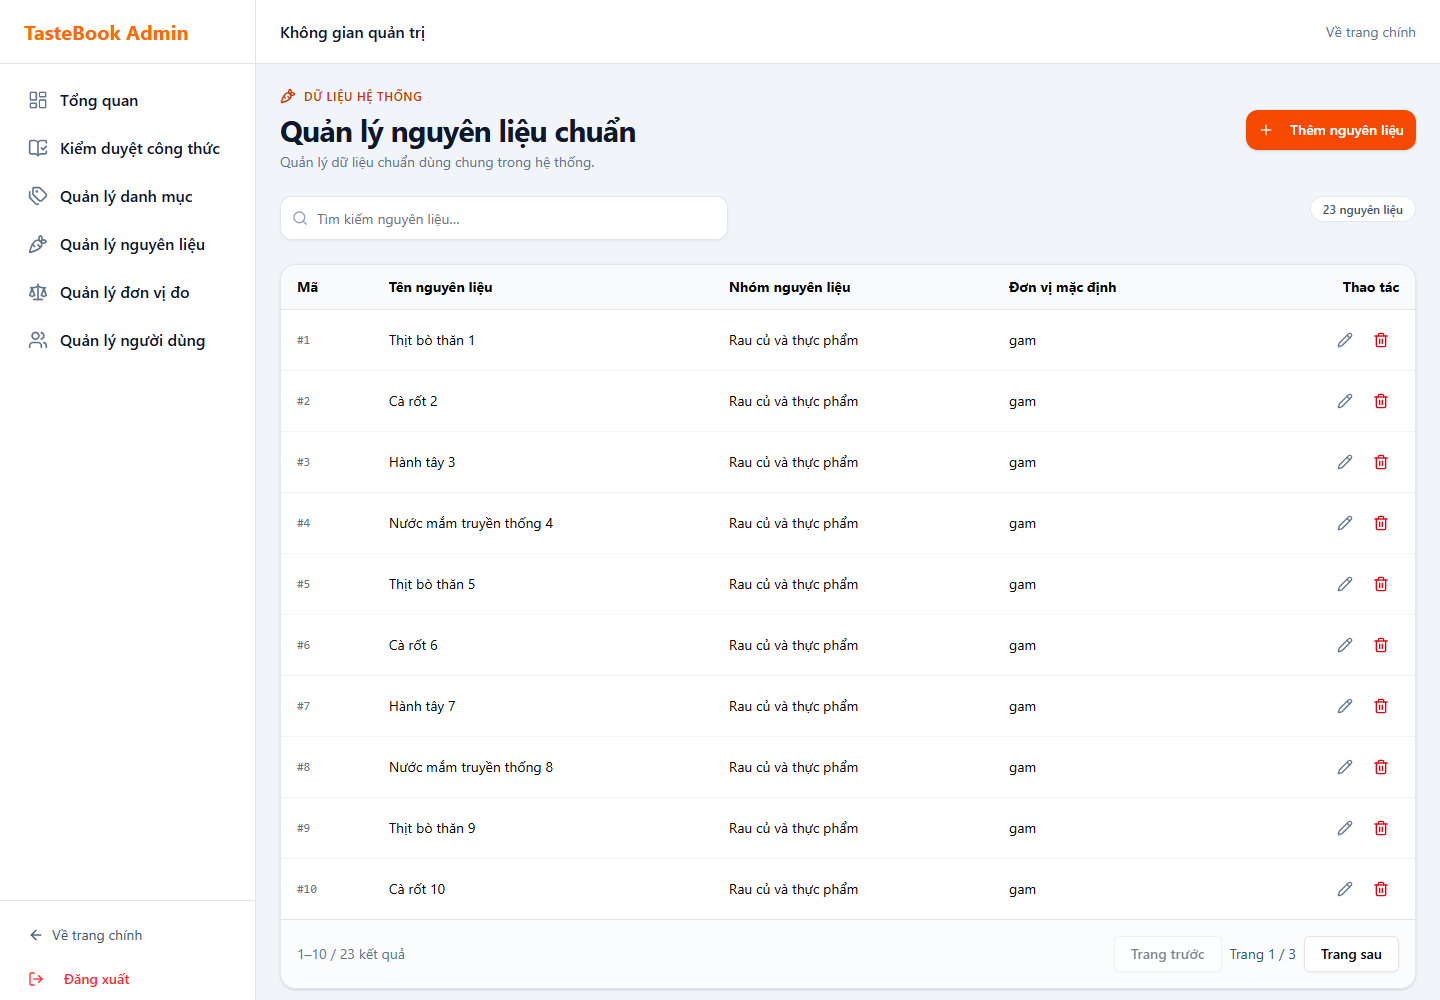
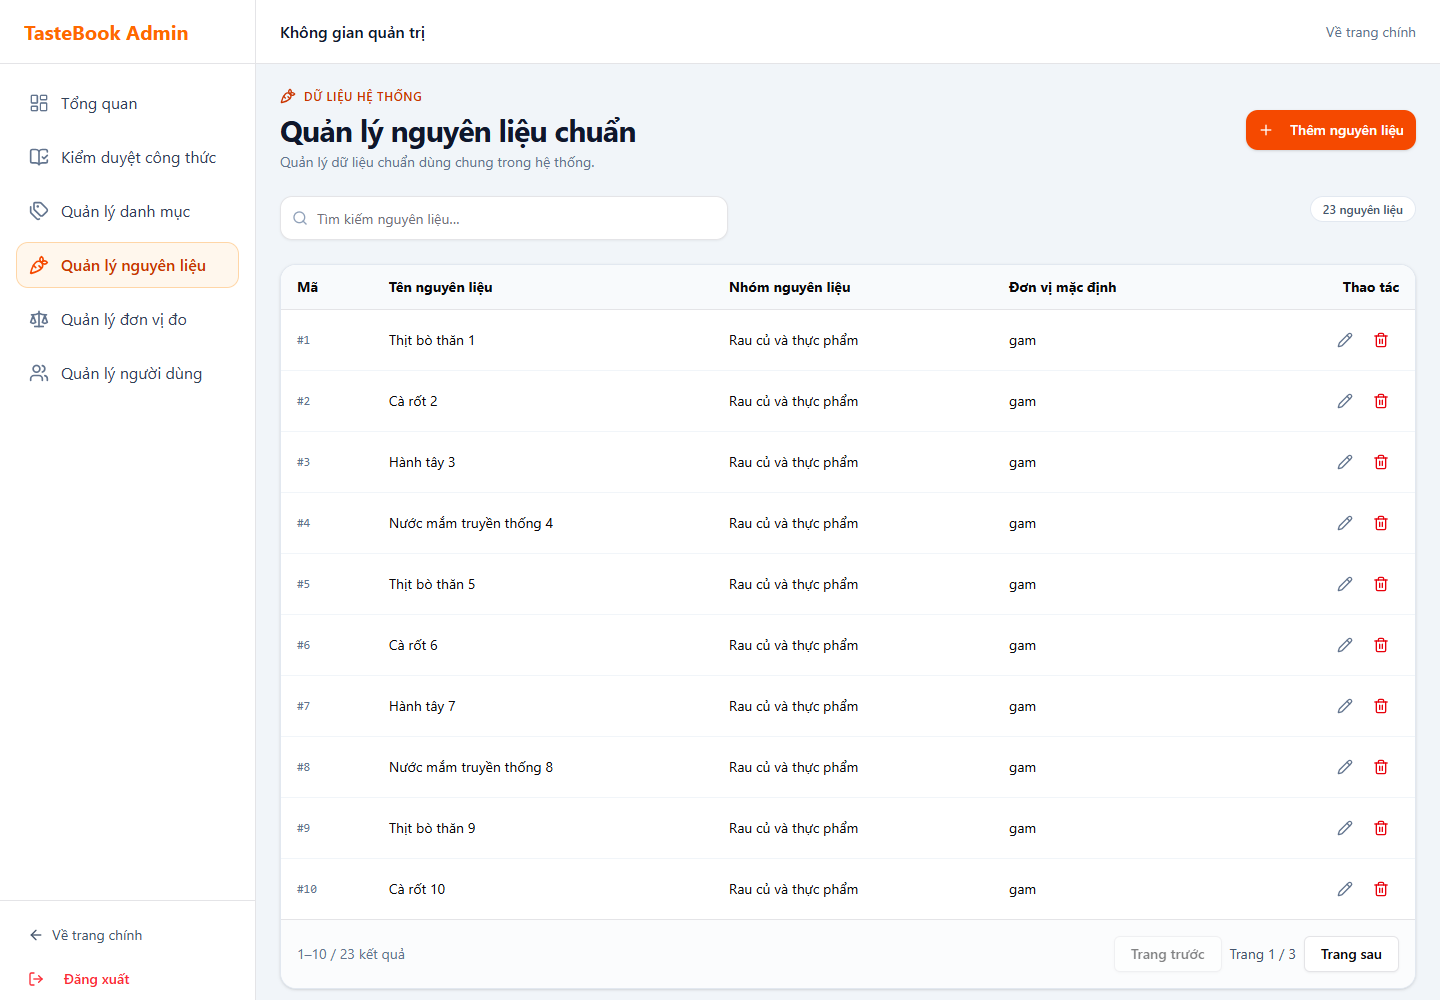
fix(fe): highlight active admin navigation on desktop and mobile

Changed region(s): [[0.0, 0.093, 0.1562, 0.403]]

diff --git a/frontend/src/components/layouts/AdminLayout.jsx b/frontend/src/components/layouts/AdminLayout.jsx
@@ -1,18 +1,9 @@
 import { useState } from 'react'
 import { Link, Outlet, useNavigate } from 'react-router-dom'
 import { toast } from 'sonner'
-import {
-  LayoutDashboard,
-  Menu,
-  BookOpenCheck,
-  Tags,
-  Carrot,
-  Scale,
-  Users,
-  LogOut,
-  ArrowLeft,
-} from 'lucide-react'
+import { Menu, LogOut, ArrowLeft } from 'lucide-react'
 import { Button } from '../ui/button'
+import AdminNavigation from './AdminNavigation'
 import { Sheet, SheetContent, SheetTrigger, SheetTitle } from '../ui/sheet'
 import { useLogout } from '../../hooks/queries/useAuthQueries'
 
@@ -43,50 +34,7 @@ export default function AdminLayout() {
           </Link>
         </div>
 
-        <nav className="flex-1 p-4 space-y-2 overflow-y-auto">
-          <Link
-            to="/admin"
-            className="flex items-center gap-3 px-3 py-2 rounded-md hover:bg-slate-100 dark:hover:bg-slate-800 transition-colors"
-          >
-            <LayoutDashboard className="w-5 h-5 text-slate-500" />
-            <span className="font-medium">Tổng quan</span>
-          </Link>
-          <Link
-            to="/admin/approvals"
-            className="flex items-center gap-3 px-3 py-2 rounded-md hover:bg-slate-100 dark:hover:bg-slate-800 transition-colors"
-          >
-            <BookOpenCheck className="w-5 h-5 text-slate-500" />
-            <span className="font-medium">Kiểm duyệt công thức</span>
-          </Link>
-          <Link
-            to="/admin/categories"
-            className="flex items-center gap-3 px-3 py-2 rounded-md hover:bg-slate-100 dark:hover:bg-slate-800 transition-colors"
-          >
-            <Tags className="w-5 h-5 text-slate-500" />
-            <span className="font-medium">Quản lý danh mục</span>
-          </Link>
-          <Link
-            to="/admin/ingredients"
-            className="flex items-center gap-3 px-3 py-2 rounded-md hover:bg-slate-100 dark:hover:bg-slate-800 transition-colors"
-          >
-            <Carrot className="w-5 h-5 text-slate-500" />
-            <span className="font-medium">Quản lý nguyên liệu</span>
-          </Link>
-          <Link
-            to="/admin/units"
-            className="flex items-center gap-3 px-3 py-2 rounded-md hover:bg-slate-100 dark:hover:bg-slate-800 transition-colors"
-          >
-            <Scale className="w-5 h-5 text-slate-500" />
-            <span className="font-medium">Quản lý đơn vị đo</span>
-          </Link>
-          <Link
-            to="/admin/users"
-            className="flex items-center gap-3 px-3 py-2 rounded-md hover:bg-slate-100 dark:hover:bg-slate-800 transition-colors"
-          >
-            <Users className="w-5 h-5 text-slate-500" />
-            <span className="font-medium">Quản lý người dùng</span>
-          </Link>
-        </nav>
+        <AdminNavigation />
 
         <div className="p-4 border-t space-y-2">
           <Link
@@ -112,53 +60,34 @@ export default function AdminLayout() {
       <div className="flex-1 flex flex-col min-w-0">
         <header className="hidden h-16 shrink-0 items-center justify-between border-b bg-white px-6 dark:bg-slate-950 md:flex">
           <span className="font-semibold">Không gian quản trị</span>
-          <Link to="/" className="text-sm text-slate-500 hover:text-orange-500">Về trang chính</Link>
+          <Link to="/" className="text-sm text-slate-500 hover:text-orange-500">
+            Về trang chính
+          </Link>
         </header>
         {/* Mobile Header */}
         <header className="h-16 bg-white dark:bg-slate-950 border-b flex items-center justify-between px-4 md:hidden">
           <span className="text-xl font-bold text-orange-500">
             TasteBook Admin
           </span>
-          
+
           <Sheet open={mobileMenuOpen} onOpenChange={setMobileMenuOpen}>
             <SheetTrigger asChild>
               <Button variant="ghost" size="icon" aria-label="Mở menu quản trị">
                 <Menu className="w-6 h-6" />
               </Button>
             </SheetTrigger>
-            <SheetContent side="left" aria-describedby={undefined} className="w-[280px] p-0 flex flex-col">
+            <SheetContent
+              side="left"
+              aria-describedby={undefined}
+              className="w-[280px] p-0 flex flex-col"
+            >
               <SheetTitle className="sr-only">Menu quản trị</SheetTitle>
               <div className="h-16 flex items-center px-6 border-b shrink-0">
                 <span className="text-xl font-bold text-orange-500">
                   TasteBook Admin
                 </span>
               </div>
-              <nav className="flex-1 p-4 space-y-2 overflow-y-auto">
-                <Link to="/admin" onClick={closeMobileMenu} className="flex items-center gap-3 px-3 py-2 rounded-md hover:bg-slate-100 dark:hover:bg-slate-800 transition-colors">
-                  <LayoutDashboard className="w-5 h-5 text-slate-500" />
-                  <span className="font-medium">Tổng quan</span>
-                </Link>
-                <Link to="/admin/approvals" onClick={closeMobileMenu} className="flex items-center gap-3 px-3 py-2 rounded-md hover:bg-slate-100 dark:hover:bg-slate-800 transition-colors">
-                  <BookOpenCheck className="w-5 h-5 text-slate-500" />
-                  <span className="font-medium">Kiểm duyệt công thức</span>
-                </Link>
-                <Link to="/admin/categories" onClick={closeMobileMenu} className="flex items-center gap-3 px-3 py-2 rounded-md hover:bg-slate-100 dark:hover:bg-slate-800 transition-colors">
-                  <Tags className="w-5 h-5 text-slate-500" />
-                  <span className="font-medium">Quản lý danh mục</span>
-                </Link>
-                <Link to="/admin/ingredients" onClick={closeMobileMenu} className="flex items-center gap-3 px-3 py-2 rounded-md hover:bg-slate-100 dark:hover:bg-slate-800 transition-colors">
-                  <Carrot className="w-5 h-5 text-slate-500" />
-                  <span className="font-medium">Quản lý nguyên liệu</span>
-                </Link>
-                <Link to="/admin/units" onClick={closeMobileMenu} className="flex items-center gap-3 px-3 py-2 rounded-md hover:bg-slate-100 dark:hover:bg-slate-800 transition-colors">
-                  <Scale className="w-5 h-5 text-slate-500" />
-                  <span className="font-medium">Quản lý đơn vị đo</span>
-                </Link>
-                <Link to="/admin/users" onClick={closeMobileMenu} className="flex items-center gap-3 px-3 py-2 rounded-md hover:bg-slate-100 dark:hover:bg-slate-800 transition-colors">
-                  <Users className="w-5 h-5 text-slate-500" />
-                  <span className="font-medium">Quản lý người dùng</span>
-                </Link>
-              </nav>
+              <AdminNavigation onNavigate={closeMobileMenu} />
               <div className="p-4 border-t shrink-0 space-y-2">
                 <Link
                   to="/"

diff --git a/frontend/src/components/layouts/AdminNavigation.jsx b/frontend/src/components/layouts/AdminNavigation.jsx
@@ -1,0 +1,56 @@
+import { NavLink } from 'react-router-dom'
+import {
+  LayoutDashboard,
+  BookOpenCheck,
+  Tags,
+  Carrot,
+  Scale,
+  Users,
+} from 'lucide-react'
+
+const items = [
+  { to: '/admin', label: 'Tổng quan', icon: LayoutDashboard, end: true },
+  {
+    to: '/admin/approvals',
+    label: 'Kiểm duyệt công thức',
+    icon: BookOpenCheck,
+  },
+  { to: '/admin/categories', label: 'Quản lý danh mục', icon: Tags },
+  { to: '/admin/ingredients', label: 'Quản lý nguyên liệu', icon: Carrot },
+  { to: '/admin/units', label: 'Quản lý đơn vị đo', icon: Scale },
+  { to: '/admin/users', label: 'Quản lý người dùng', icon: Users },
+]
+
+export default function AdminNavigation({ onNavigate }) {
+  return (
+    <nav
+      aria-label="Điều hướng quản trị"
+      className="flex-1 space-y-2 overflow-y-auto p-4"
+    >
+      {items.map(({ to, label, icon: Icon, end }) => (
+        <NavLink
+          key={to}
+          to={to}
+          end={end}
+          onClick={onNavigate}
+          className={({ isActive }) =>
+            `flex items-center gap-3 rounded-xl border px-3 py-2.5 transition-colors ${
+              isActive
+                ? 'border-orange-200 bg-orange-50 font-semibold text-orange-700 dark:border-orange-900 dark:bg-orange-950/50 dark:text-orange-300'
+                : 'border-transparent text-slate-700 hover:bg-slate-100 dark:text-slate-300 dark:hover:bg-slate-800'
+            }`
+          }
+        >
+          {({ isActive }) => (
+            <>
+              <Icon
+                className={`h-5 w-5 shrink-0 ${isActive ? 'text-orange-600 dark:text-orange-400' : 'text-slate-500'}`}
+              />
+              <span>{label}</span>
+            </>
+          )}
+        </NavLink>
+      ))}
+    </nav>
+  )
+}
